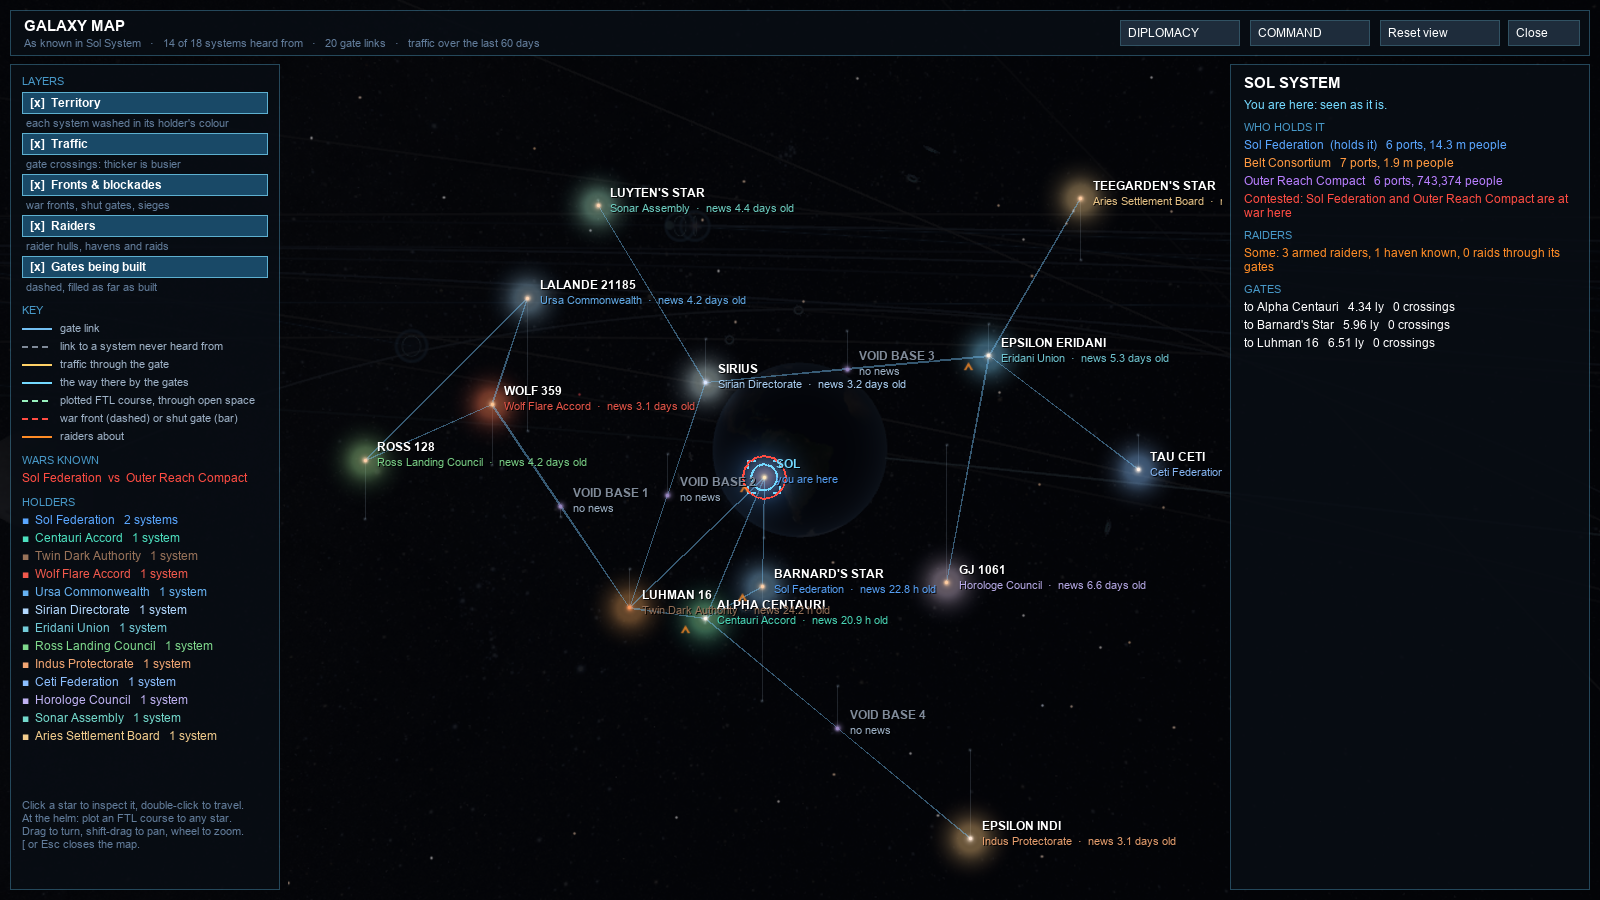
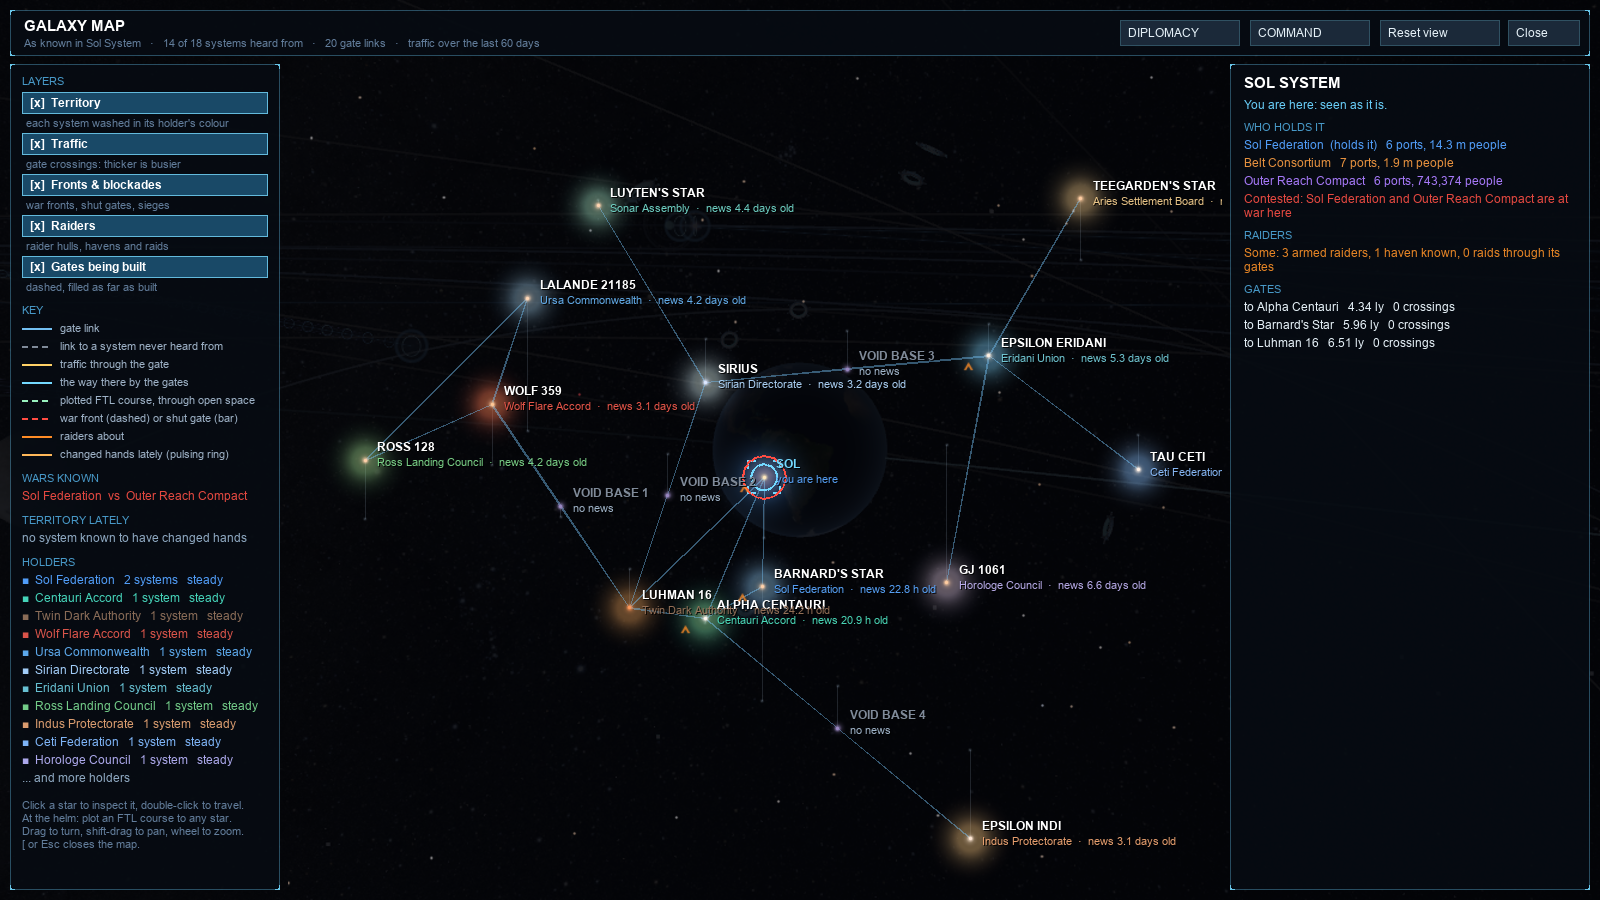
UI layout audit: Influence badge and dev hint step aside for full-screen screens, galaxy holders list stops above its help text, selection card values wrap, market bottom padding (US-T208)
Claude-Session: https://claude.ai/code/session_015bvmQX2ANNPgBoBQ2mSzqM

Changed region(s): [[0.0, 0.4978, 0.1562, 0.8711]]

diff --git a/Cpp/Source/SpaceGod/UI/Hud.Panels.cpp b/Cpp/Source/SpaceGod/UI/Hud.Panels.cpp
@@ -1021,12 +1021,30 @@ namespace SpaceGod::UI
 		}
 
 		float w = 410;
-		float linesH = lines.Count() * 19;
+		// US-T208: a long value wraps inside the card instead of running off its right edge (a row is as tall as its wrapped value).
+		static cs::Ref<GUIStyle> wrapText;
+		if (wrapText == nullptr || wrapText->fontSize != text->fontSize)
+		{
+			wrapText = cs::New<GUIStyle>(*text);
+			wrapText->wordWrap = true;
+		}
+		auto rowHeight = [&](const SelectionLine& l, float valueW)
+		{
+			if (l.key.empty()) return Mathf::Max(19.0f, small->CalcHeight(GUIContent(l.value), w - 28) + 1);
+			return Mathf::Max(19.0f, wrapText->CalcHeight(GUIContent(l.value), valueW) + 1);
+		};
+		float linesH = 0;
+		for (const auto& l : lines) linesH += rowHeight(l, w - 146);
 		// A long card (a boarded hull lists every compartment) never runs into the right-hand column's other panels (the
 		// reactor and sensors under it, the opportunities or market and the HUNTED list over it, US-T152): it takes what
 		// BottomRight has left up to TopRight, and its lines scroll in that.
 		float maxLinesH = Mathf::Max(19.0f * 2, layout.FreeRight() - (64 + 30));
 		bool scrolls = linesH > maxLinesH;
+		if (scrolls)
+		{
+			linesH = 0;
+			for (const auto& l : lines) linesH += rowHeight(l, w - 162);
+		}
 		float shownH = scrolls ? maxLinesH : linesH;
 		float h = 64 + shownH + 30;
 		auto r = Panel(layout.Take(HudRegion::BottomRight, w, h));
@@ -1052,17 +1070,18 @@ namespace SpaceGod::UI
 		}
 		for (const auto& [key, value] : lines)
 		{
+			float rowH = rowHeight(SelectionLine{ key, value }, valueW);
 			if (key.empty())
 			{
-				GUI::Label(Rect(x0 + 14, y, w - 28, 36), value, small);
-				y += 19;
+				GUI::Label(Rect(x0 + 14, y, w - 28, rowH), value, small);
+				y += rowH;
 				continue;
 			}
 			GUI::contentColor = Dim;
 			GUI::Label(Rect(x0 + 14, y, 120, 19), key, small);
 			GUI::contentColor = Color::white();
-			GUI::Label(Rect(x0 + 132, y, valueW, 19), value, text);
-			y += 19;
+			GUI::Label(Rect(x0 + 132, y, valueW, rowH), value, wrapText);
+			y += rowH;
 		}
 		if (scrolls) GUI::EndScrollView();
 		GUI::contentColor = old;

diff --git a/Cpp/Source/SpaceGod/UnitySpaceApp.Influence.cpp b/Cpp/Source/SpaceGod/UnitySpaceApp.Influence.cpp
@@ -3,6 +3,7 @@
 #include "UnitySpaceApp.h"
 
 #include "Astro.h"
+#include "Camera/StarTravel.h"
 #include "Combat/CombatSpecs.h"
 #include "Combat/SquadOrders.h"
 #include "Coop/CoopPeer.h"
@@ -123,6 +124,10 @@ namespace SpaceGod
 		{
 			float w = 268, h = 46;
 			auto r = Rect(10, 50, w, h);
+			// US-T208: a full-screen screen (spawn, manual, galaxy map) owns the top left: the badge would sit on its titles.
+			bool fullScreen = ShowSpawn || ShowHelp || (ShowGalaxyMap && !Travel->Active);
+			if (!fullScreen)
+			{
 			GUI::Box(r, GUIContent::none(), influencePanel);
 			cs::String head = cs::Cat("INFLUENCE  ", level, "  \xC2\xB7  ", cs::Strings::ToUpperInvariant(SpaceGodInfluence::Title(level)),
 				inf != nullptr && inf->Waived ? cs::String("  \xC2\xB7  LIMITS OFF (dev)") : cs::String());
@@ -135,6 +140,7 @@ namespace SpaceGod
 			if (now < influenceGainUntil && inf != nullptr)
 				foot = cs::Cat("+", cs::Fmt(inf->LastGainXp, "N0"), " XP  \xC2\xB7  ", inf->LastGain);
 			GUI::Label(Rect(r.x + 8, r.y + 29, w - 16, 15), foot, influenceSmall);
+			}
 		}
 
 		// The squad a band captain held is closing with, and the key that orders it to stand down.

diff --git a/Cpp/Source/SpaceGod/UI/GalaxyMapScreen.cpp b/Cpp/Source/SpaceGod/UI/GalaxyMapScreen.cpp
@@ -513,7 +513,12 @@ namespace SpaceGod::UI
 		{
 			if (m->Holder == nullptr || seen.Contains(m->Holder)) continue;
 			seen.Add(m->Holder);
-			if (y > r.yMax() - 90) break;
+			// US-T208: stop a line short of the help text (a Line is 18 tall; the text takes the last 96 of the panel), with a closing line.
+			if (y + 18 > r.yMax() - 96 - 16)
+			{
+				Line(y, x, w, "... and more holders", Dim);
+				break;
+			}
 			int held = 0;
 			for (const auto& n : model->Systems)
 				if (n->Holder == m->Holder) held++;
@@ -529,7 +534,7 @@ namespace SpaceGod::UI
 
 		auto old = GUI::contentColor;
 		GUI::contentColor = Dim;
-		GUI::Label(Rect(x, r.yMax() - 92, w, 86),
+		GUI::Label(Rect(x, r.yMax() - 92, w, 84),
 			"Click a star to inspect it, double-click to travel.\nAt the helm: plot an FTL course to any star.\nDrag to turn, shift-drag to pan, wheel to zoom.\n[ or Esc closes the map.", small);
 		GUI::contentColor = old;
 	}

diff --git a/Cpp/Source/SpaceGod/UI/Hud.Boards.cpp b/Cpp/Source/SpaceGod/UI/Hud.Boards.cpp
@@ -404,7 +404,8 @@ namespace SpaceGod::UI
 
 		constexpr float rowH = 17;
 		float w = canTrade ? 600.0f : 430.0f;
-		float h = marketOpen ? 62 + GoodInfo::Count * rowH + (canTrade ? 20 : 0) + extra + lawRow : 34;
+		// US-T208: 78 = the 50 above the column header, its row, and 11 of padding under the last good (it was 62: Munitions sat on the border).
+		float h = marketOpen ? 78 + GoodInfo::Count * rowH + (canTrade ? 20 : 0) + extra + lawRow : 34;
 		auto r = Panel(layout.Take(HudRegion::TopRight, w, h)); // TopRight's first slot (US-T153)
 		cs::String heading = market != nullptr ? cs::Cat("MARKET  ·  ", market->Name) : cs::String("MARKET  ·  system average");
 		if (GUI::Button(Rect(r.x + 8, r.y + 6, w - 16, 22), UiStyle::Fold(marketOpen, heading), title)) marketOpen = !marketOpen;

diff --git a/Cpp/Source/SpaceGod/UI/CheatMenu.cpp b/Cpp/Source/SpaceGod/UI/CheatMenu.cpp
@@ -3,6 +3,7 @@
 #include "UI/CheatMenu.h"
 
 #include "GameLaunch.h"
+#include "Camera/StarTravel.h"
 #include "Input/InputDevice.h"
 #include "SpaceGodLog.h"
 #include "UI/Hud.h"
@@ -370,6 +371,8 @@ namespace SpaceGod::UI
 		{
 			// The HUD's hint for the key, out of the way at the bottom right (gone with the HUD's panels and a cleared screen).
 			if (!app.ShowHud || app.ScreenCleared) return;
+			// US-T208: a full-screen screen (spawn, manual, galaxy map) owns the corner: the hint would sit on its buttons and borders.
+			if (app.ShowSpawn || app.ShowHelp || (app.ShowGalaxyMap && !app.Travel->Active)) return;
 			auto r = Rect(Screen::width - 196.0f, Screen::height - 24.0f, 186, 18);
 			GUI::Box(r, GUIContent::none(), hint);
 			GUI::Label(r, "Shift+F1  DEV MENU", hint);
